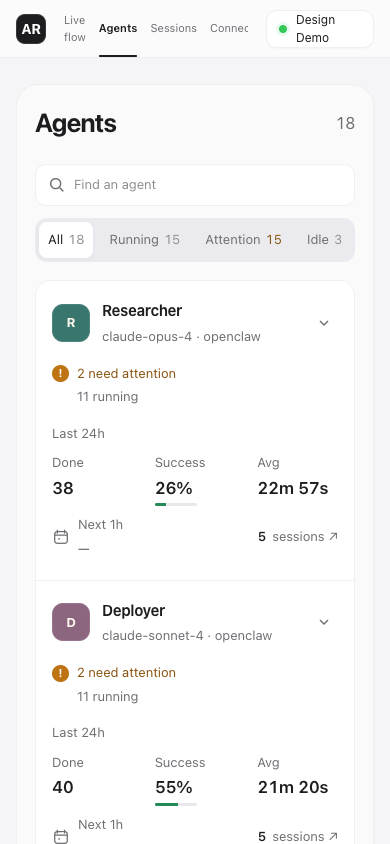
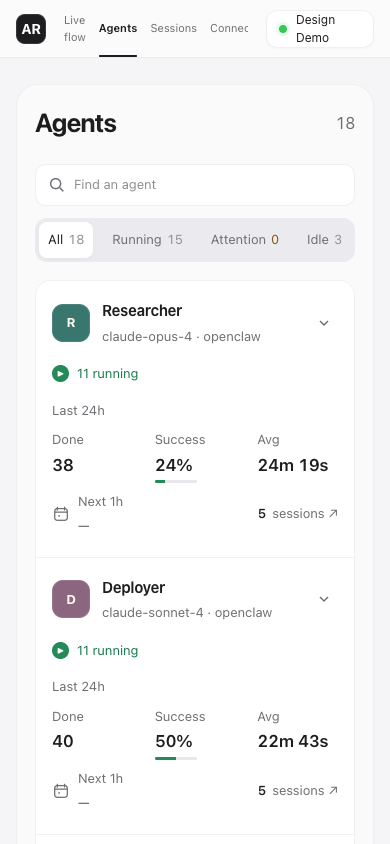
fix(ui): address roster sorting and status announcements

diff --git a/web/src/views/Connections.tsx b/web/src/views/Connections.tsx
@@ -21,8 +21,10 @@ function ConnectionIcon({ kind }: { kind: "gateway" | "collector" | "browser" | 
   </svg>;
 }
 
-function Signal({ signal, prefix }: { signal: ConnectionSignal; prefix?: string }) {
-  return <span className="connection-signal" data-tone={signal.tone}><i aria-hidden="true" />{prefix}{signal.label}</span>;
+function Signal({ signal, prefix, announce = false }: { signal?: ConnectionSignal; prefix?: string; announce?: boolean }) {
+  return <span className={signal ? "connection-signal" : "sr-only"} data-tone={signal?.tone} aria-live={announce ? "polite" : undefined} aria-atomic={announce ? true : undefined}>
+    {signal ? <><i aria-hidden="true" />{prefix}{signal.label}</> : null}
+  </span>;
 }
 
 function FlowStep({ kind, label, title, signal, children }: {
@@ -82,7 +84,7 @@ function ArchivePanel({ status, error, reload }: { status?: TranscriptArchiveSta
     <div className="connection-archive-heading">
       <span className="connection-archive-icon"><ConnectionIcon kind="archive" /></span>
       <div><h2 id="connection-archive-title">Conversation archive</h2><p className="connection-archive-disclosure">{status ? archiveDisclosure(status) : error ? "Status unavailable" : "Loading…"}</p></div>
-      {status ? <Signal signal={error ? { label: "Last known", tone: "warn" } : archiveSignal(status)} /> : null}
+      <Signal announce signal={status ? error ? { label: "Last known", tone: "warn" } : archiveSignal(status) : undefined} />
       <Link to="/settings?section=archive" className="connection-settings" aria-label="Archive settings" title="Archive settings"><ConnectionIcon kind="settings" /></Link>
     </div>
     {error ? <div className="connection-error" role="alert"><span>Archive status unavailable</span><button type="button" onClick={() => void reload()}>Retry</button></div> : null}
@@ -127,7 +129,7 @@ export function ConnectionsView({ status }: { status?: CollectorStatus }) {
     : { label: "No nodes", tone: "quiet" };
 
   return <section className="surface view-surface connections-view" aria-busy={!status && !error}>
-    <div className="view-heading"><h1>Connections</h1><div className="connection-heading-actions"><Signal signal={pageSignal} /><Link to="/settings" className="connection-settings" aria-label="Connection settings" title="Connection settings"><ConnectionIcon kind="settings" /></Link></div></div>
+    <div className="view-heading"><h1>Connections</h1><div className="connection-heading-actions"><Signal announce signal={pageSignal} /><Link to="/settings" className="connection-settings" aria-label="Connection settings" title="Connection settings"><ConnectionIcon kind="settings" /></Link></div></div>
     {status ? <>
       <div className={`connection-flow${hub ? " connection-flow-hub" : ""}`} aria-label={hub ? "Nodes to Hub to Browser" : "Gateway to Collector to Browser"} data-page-live={live.state === "open"}>
         {hub ? <div className="connection-branches" aria-label="Collector nodes">{hosts.length ? hosts.map((host) => <HostBranch key={host.id} host={host} />) : <div className="connection-no-nodes"><ConnectionIcon kind="collector" /><span>No connected nodes</span><Link to="/settings">Connect a node</Link></div>}</div> : <FlowStep kind="gateway" label="Gateway" title={status.gateway.name} signal={gatewaySignal(status.gateway.connected)} />}

diff --git a/web/src/views/Agents.test.ts b/web/src/views/Agents.test.ts
@@ -189,6 +189,45 @@ describe("Agents roster", () => {
     expect(container.querySelector(".agent-card")?.getAttribute("data-host-id")).toBe("remote");
   });
 
+  it("removes retained priority when the owner becomes offline or partial while keeping healthy attention and historical ordering", async () => {
+    state.agents = [
+      agent("desk::writer", { displayName: "Writer", lastSessionActivityAt: 100 }),
+      agent("desk::reviewer", { displayName: "Reviewer", lastSessionActivityAt: 300 }),
+      agent("remote::ops", { displayName: "Operations", hostId: "remote", lastSessionActivityAt: 50 }),
+    ];
+    const liveStatus = status({ host: { id: "hub", label: "Hub", role: "hub" }, sources: [], hosts: [
+      { id: "desk", label: "Desktop", reachable: true, syncState: "live", gatewayConnected: true },
+      { id: "remote", label: "Remote", reachable: true, syncState: "live", gatewayConnected: true },
+    ] });
+    state.status = liveStatus;
+    const liveSnapshot = snapshot([
+      activity("old-wait-1", { agentId: "desk::writer", attention: "waiting" }),
+      activity("old-wait-2", { agentId: "desk::writer", attention: "waiting" }),
+      activity("old-run", { agentId: "desk::reviewer" }),
+      activity("current-wait", { agentId: "remote::ops", hostId: "remote", attention: "waiting" }),
+    ]);
+    state.snapshot = liveSnapshot;
+    const order = () => [...container.querySelectorAll(".agent-card")].map((row) => row.getAttribute("data-agent-id"));
+    await mount();
+    expect(order()).toEqual(["desk::writer", "remote::ops", "desk::reviewer"]);
+
+    // The snapshot is unchanged: current owner status alone must invalidate rank.
+    state.status = { ...liveStatus, hosts: liveStatus.hosts!.map((host) => host.id === "desk" ? { ...host, reachable: false, syncState: "offline", gatewayConnected: false } : host) };
+    await mount();
+    expect(order()).toEqual(["remote::ops", "desk::reviewer", "desk::writer"]);
+    expect(container.querySelector('[data-agent-id="desk::writer"] .roster-signal')?.getAttribute("data-state")).toBe("unknown");
+
+    state.status = liveStatus;
+    await mount();
+    expect(order()).toEqual(["desk::writer", "remote::ops", "desk::reviewer"]);
+
+    // The status is unchanged: owner-qualified coverage also invalidates rank.
+    state.snapshot = { ...liveSnapshot, sync: { ...liveSnapshot.sync, reasons: ["desk:live_with_unavailable_source"] } };
+    await mount();
+    expect(order()).toEqual(["remote::ops", "desk::reviewer", "desk::writer"]);
+    expect(container.querySelector('[data-agent-id="remote::ops"] .roster-signal')?.textContent).toContain("1 need attention");
+  });
+
   it("withholds old running and planned signals when the Gateway goes offline while retaining the roster and rollups", async () => {
     const writer = agent("writer");
     writer.recent["24h"] = { ...emptyRollup, completed: 6 };

diff --git a/web/src/views/Connections.test.ts b/web/src/views/Connections.test.ts
@@ -116,4 +116,39 @@ describe("connection page modes and recovery", () => {
     expect(container.querySelector(".connection-archive-disclosure")?.textContent).toContain("saved text kept");
     expect(container.querySelector(".connection-error")).not.toBeNull();
   });
+  it("announces page stream changes from one stable live region", async () => {
+    await mount(status());
+    const announcement = container.querySelector(".connection-heading-actions > .connection-signal")!;
+    expect(announcement.getAttribute("aria-live")).toBe("polite");
+    expect(announcement.getAttribute("aria-atomic")).toBe("true");
+    expect(announcement.textContent).toBe("Updates live");
+    data.live = { state: "stopped", attempts: 1 };
+    await mount(status());
+    expect(container.querySelector(".connection-heading-actions > .connection-signal")).toBe(announcement);
+    expect(announcement.textContent).toBe("Updates paused");
+    expect(container.querySelector("[data-step=browser] [aria-live]")).toBeNull();
+    expect(container.querySelector(".connection-sources [aria-live]")).toBeNull();
+  });
+  it("keeps the archive live region mounted from loading through capacity and sync changes", async () => {
+    data.archive = undefined;
+    await mount(status());
+    const announcement = container.querySelector(".connection-archive-heading > [aria-live=polite]")!;
+    expect(announcement.getAttribute("aria-atomic")).toBe("true");
+    expect(announcement.textContent).toBe("");
+    expect(announcement.className).toBe("sr-only");
+    data.archive = { enabled: true, messageCount: 8, contentBytes: 8_000, retentionDays: 30, maxBytes: 1_000_000, filePermissionsEnforced: true, sync: { sessions: 1, inserted: 0, capacity: "ok" } };
+    await mount(status());
+    expect(container.querySelector(".connection-archive-heading > [aria-live=polite]")).toBe(announcement);
+    expect(announcement.className).toBe("connection-signal");
+    expect(announcement.textContent).toBe("Sync ready");
+    data.archive = { ...data.archive, sync: { sessions: 0, inserted: 0, capacity: "full" } };
+    await mount(status());
+    expect(container.querySelector(".connection-archive-heading > [aria-live=polite]")).toBe(announcement);
+    expect(announcement.textContent).toBe("New messages paused");
+    data.archiveError = "read_failed";
+    await mount(status());
+    expect(container.querySelector(".connection-archive-heading > [aria-live=polite]")).toBe(announcement);
+    expect(announcement.textContent).toBe("Last known");
+    expect(container.querySelectorAll("[aria-live=polite]")).toHaveLength(2);
+  });
 });

diff --git a/web/src/views/Agents.tsx b/web/src/views/Agents.tsx
@@ -101,8 +101,16 @@ export function AgentsView() {
   const [query, setQuery] = useState("");
   const now = useScheduleNow();
   const counts = useMemo(() => liveCountsByAgent(snapshot), [snapshot]);
-  const of = (agent: AgentOverview) => countsForAgent(agent, counts, snapshot, status);
-  const sorted = useMemo(() => sortAgents(agents ?? [], counts), [agents, counts]);
+  const observableCounts = useMemo(() => {
+    const current = new Map<string, AgentLiveCounts>();
+    for (const agent of agents ?? []) {
+      const value = countsForAgent(agent, counts, snapshot, status);
+      if (value) current.set(agentIdentity(agent.hostId, agent.id), value);
+    }
+    return current;
+  }, [agents, counts, snapshot, status]);
+  const of = (agent: AgentOverview) => observableCounts.get(agentIdentity(agent.hostId, agent.id));
+  const sorted = useMemo(() => sortAgents(agents ?? [], observableCounts), [agents, observableCounts]);
   const shown = sorted.filter((agent) => matchesAgentFilter(filter, of(agent)) && matchesAgentSearch(agent, query));
   const multiHost = new Set(sorted.map((agent) => agent.hostId)).size > 1;
   const missingCollectors = (status?.hosts ?? []).filter((host) => !host.reachable).length;

diff --git a/docs/validation/2026-10-11-roster-history-connections/README.md b/docs/validation/2026-10-11-roster-history-connections/README.md
@@ -8,7 +8,7 @@ with independent source and archive signals. Diagnostic details are folded.
 
 ## Verification
 
-- Fresh `pnpm verify`: type checking, **687 tests in 57 files**, server build and
+- Fresh `pnpm verify`: type checking, **690 tests in 57 files**, server build and
   production web build passed after the review fixes.
 - **58 production Chrome checks** passed: 11 viewport checks, 39 interaction
   checks and 8 checks with the actual demo Gateway stopped. Coverage includes
@@ -20,15 +20,21 @@ with independent source and archive signals. Diagnostic details are folded.
   independent Cron coverage, owner-specific Hub uncertainty, the next-hour
   window, recent-history scope, fallback update times, same-name identities,
   polling without topic events, request ordering, cleanup and Inspector focus.
+- CodeRabbit's two functional findings were fixed: retained activity no longer
+  gives an unobservable Agent sorting priority, and page/archive status changes
+  use stable polite live regions. DOM tests verify the announcement regions;
+  actual VoiceOver output was not exercised.
 - A separate static Gateway verified a real failed sync round and recovery
   with **zero inserted messages and zero session/message invalidations**.
   The page changed from Sync ready to Sync paused and back automatically,
   about 5.3 seconds after each actual status API transition. The Collector's
   existing 30-second background sync cadence precedes that frontend latency.
 
-The images are unedited captures of the final production build with the project
-mock Gateway and isolated demo SQLite databases, using real Collector/Hub HTTP
-and SSE. Browser responses were not intercepted. Viewport checks do not claim
+The main-view images are unedited captures of the final production build with
+the project mock Gateway and isolated demo SQLite databases, using real
+Collector/Hub HTTP and SSE. The sync-failure images record the separate API
+acceptance round before the final sorting and live-region fixes, which preserve
+the transcript refresh hook. Browser responses were not intercepted. Viewport checks do not claim
 physical mobile-device or Safari acceptance. The existing JavaScript chunk-size
 warning remains: about 545 kB raw / 164 kB gzip.
 
